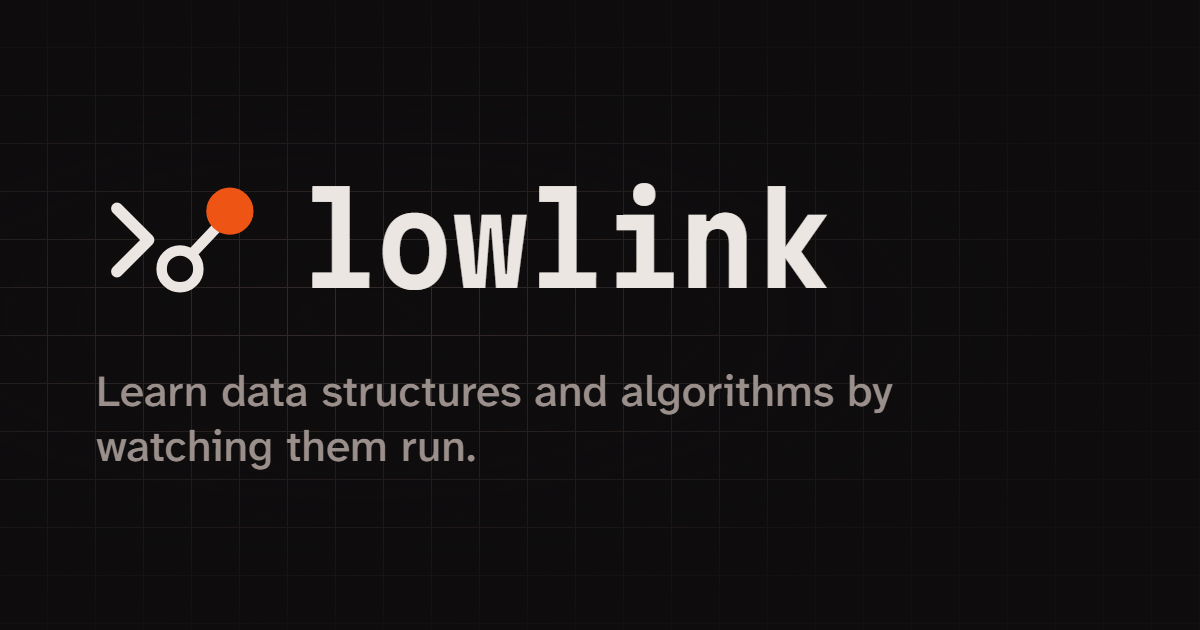
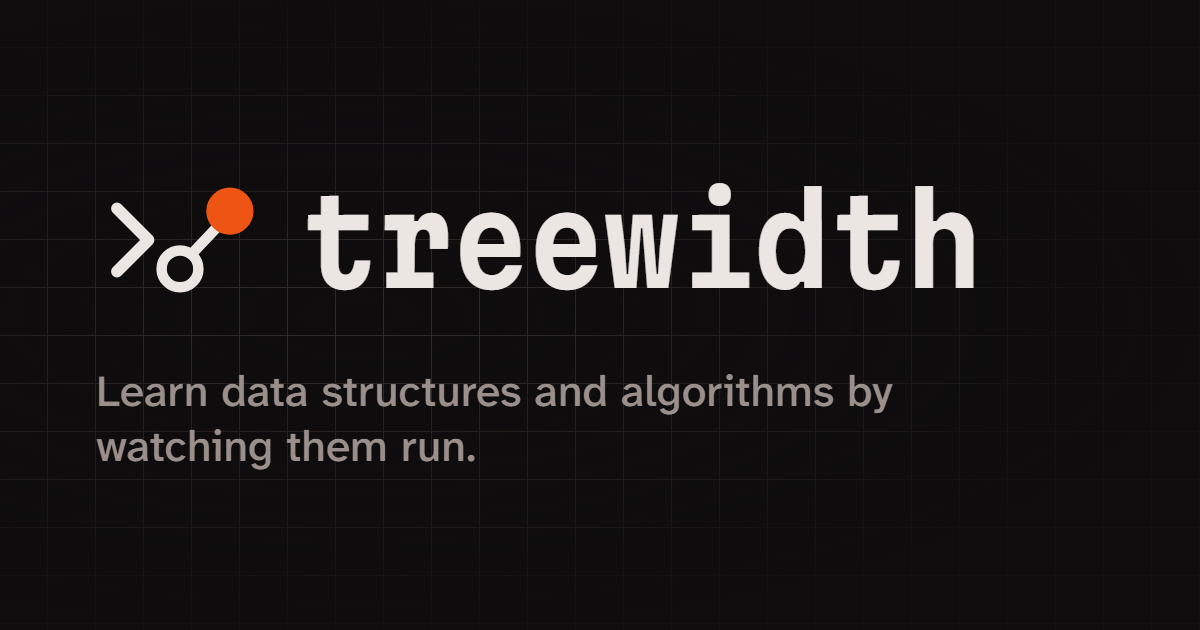
chore(brand): rename the product from Lowlink to Treewidth
Branding only. The wordmark, titles, meta and og tags, manifest, package
name, about page, footer and error copy now say Treewidth, and the OG card
is regenerated. Everything about Tarjan's algorithm keeps "low-link": node
labels, explanations, counters, the catalog entry and the "lowlink"
marquee op. Theme storage keys are unchanged so saved settings survive.

The domain is no longer hardcoded. SITE_ORIGIN is read at build time
(default https://treewidth.dev) and feeds canonical links, og:url,
og:image, and robots.txt, which is now generated beside sitemap.xml. A
test checks src/, public/ and the build output for the old domain.
treewidth.dev is not registered yet; CONTRIBUTING says SITE_ORIGIN must
point at a live domain before dev is merged to main.

Changed region(s): [[0.2467, 0.2714, 0.8325, 0.4825]]

diff --git a/vite.config.ts b/vite.config.ts
@@ -1,9 +1,11 @@
 import { defineConfig, type Plugin } from 'vitest/config';
+import { loadEnv } from 'vite';
 import react from '@vitejs/plugin-react';
 import tailwindcss from '@tailwindcss/vite';
 
 import './src/algorithms';
-import { sitemapXml } from './src/seo/sitemap';
+import { robotsTxt, sitemapXml } from './src/seo/sitemap';
+import { siteOriginFrom } from './src/site';
 import { ACTIVE_THEME, PRESETS, THEME_STYLE_ID, themeCss } from './src/theme/themes';
 
 /** FNV-1a, 32 bit: enough to tell one theme build from the next. */
@@ -25,7 +27,7 @@ const THEME_FILE = `assets/theme-${contentHash(THEME_CSS)}.css`;
  */
 function theme(): Plugin {
   return {
-    name: 'lowlink-theme',
+    name: 'treewidth-theme',
     transformIndexHtml: () => [
       { tag: 'link', attrs: { rel: 'stylesheet', id: THEME_STYLE_ID, href: `/${THEME_FILE}` }, injectTo: 'head' },
     ],
@@ -41,29 +43,43 @@ function theme(): Plugin {
   };
 }
 
-/** Emits sitemap.xml from the open levels; see src/seo/sitemap.ts. */
-function sitemap(): Plugin {
+/**
+ * Puts the site's origin wherever the site names itself: %SITE_ORIGIN% in
+ * index.html (og:url, og:image), and robots.txt and sitemap.xml, emitted
+ * from the open levels (see src/seo/sitemap.ts).
+ */
+function site(origin: string): Plugin {
   return {
-    name: 'lowlink-sitemap',
-    apply: 'build',
+    name: 'treewidth-site',
+    transformIndexHtml: {
+      order: 'pre',
+      handler: (html) => html.replaceAll('%SITE_ORIGIN%', origin),
+    },
     generateBundle() {
-      this.emitFile({ type: 'asset', fileName: 'sitemap.xml', source: sitemapXml() });
+      this.emitFile({ type: 'asset', fileName: 'robots.txt', source: robotsTxt(origin) });
+      this.emitFile({ type: 'asset', fileName: 'sitemap.xml', source: sitemapXml(undefined, origin) });
     },
   };
 }
 
-export default defineConfig({
-  plugins: [theme(), sitemap(), react(), tailwindcss()],
-  base: '/',
-  build: {
-    target: 'es2022',
-    sourcemap: true,
-  },
-  test: {
-    environment: 'node',
-    include: ['src/**/*.test.ts'],
-    // Vitest blanks stylesheets by default; themes.test.ts reads the role
-    // palette out of index.css so it can never drift from what ships.
-    css: { include: [/index\.css/] },
-  },
+export default defineConfig(({ mode }) => {
+  // SITE_ORIGIN from the environment (or a .env file), else the default in
+  // src/site.ts. The app reads it as import.meta.env.SITE_ORIGIN.
+  const origin = siteOriginFrom(loadEnv(mode, '.', 'SITE_ORIGIN').SITE_ORIGIN);
+  return {
+    plugins: [theme(), site(origin), react(), tailwindcss()],
+    base: '/',
+    define: { 'import.meta.env.SITE_ORIGIN': JSON.stringify(origin) },
+    build: {
+      target: 'es2022',
+      sourcemap: true,
+    },
+    test: {
+      environment: 'node',
+      include: ['src/**/*.test.ts'],
+      // Vitest blanks stylesheets by default; themes.test.ts reads the role
+      // palette out of index.css so it can never drift from what ships.
+      css: { include: [/index\.css/] },
+    },
+  };
 });

diff --git a/src/seo/siteOrigin.test.ts b/src/seo/siteOrigin.test.ts
@@ -1,0 +1,57 @@
+import { describe, expect, it } from 'vitest';
+import { build, type Rollup } from 'vite';
+
+import { DEFAULT_SITE_ORIGIN, SITE_ORIGIN, siteOriginFrom } from '../site';
+
+/** The old domain, spelled so this file does not contain it. */
+const OLD_DOMAIN = ['lowlink', 'dev'].join('.');
+
+/** Every file under src/ and public/, as text; binary files read as mangled text, which still shows an ASCII domain. */
+const SOURCES: Record<string, string> = import.meta.glob(['/src/**/*', '/public/**/*'], {
+  query: '?raw',
+  import: 'default',
+  eager: true,
+});
+
+function outputsOf(result: Awaited<ReturnType<typeof build>>): Rollup.OutputBundle[number][] {
+  const results = Array.isArray(result) ? result : [result];
+  return results.flatMap((one) => ('output' in one ? one.output : []));
+}
+
+describe('site origin', () => {
+  it('defaults to treewidth.dev and accepts only a bare https origin', () => {
+    expect(DEFAULT_SITE_ORIGIN).toBe('https://treewidth.dev');
+    expect(siteOriginFrom(undefined)).toBe(DEFAULT_SITE_ORIGIN);
+    expect(siteOriginFrom('  ')).toBe(DEFAULT_SITE_ORIGIN);
+    expect(siteOriginFrom('https://example.org/')).toBe('https://example.org');
+    expect(() => siteOriginFrom('http://example.org')).toThrow();
+    expect(() => siteOriginFrom('https://example.org/app')).toThrow();
+    expect(SITE_ORIGIN).toBe(siteOriginFrom(undefined));
+  });
+
+  it(`leaves no ${OLD_DOMAIN} in src/ or public/`, () => {
+    const names = Object.keys(SOURCES);
+    expect(names.some((name) => name.startsWith('/public/'))).toBe(true);
+    expect(names.filter((name) => SOURCES[name]?.includes(OLD_DOMAIN))).toEqual([]);
+  });
+
+  // public/ is copied into the output byte for byte, so the test above covers
+  // those files; this covers everything the build generates.
+  it(`leaves no ${OLD_DOMAIN} in the build output, and puts the origin where it belongs`, async () => {
+    const result = await build({ logLevel: 'silent', mode: 'production', build: { write: false, sourcemap: false } });
+    const files = outputsOf(result);
+    const text = (file: Rollup.OutputBundle[number]): string =>
+      file.type === 'chunk' ? file.code : typeof file.source === 'string' ? file.source : new TextDecoder().decode(file.source);
+    const byName = new Map(files.map((file) => [file.fileName, text(file)]));
+
+    expect(files.length).toBeGreaterThan(3);
+    expect([...byName].filter(([, body]) => body.includes(OLD_DOMAIN)).map(([name]) => name)).toEqual([]);
+
+    const html = byName.get('index.html') ?? '';
+    expect(html).toContain(`<meta property="og:url" content="${SITE_ORIGIN}/" />`);
+    expect(html).toContain(`<meta property="og:image" content="${SITE_ORIGIN}/og.png" />`);
+    expect(html).not.toContain('%SITE_ORIGIN%');
+    expect(byName.get('robots.txt')).toContain(`Sitemap: ${SITE_ORIGIN}/sitemap.xml`);
+    expect(byName.get('sitemap.xml')).toContain(`<loc>${SITE_ORIGIN}/</loc>`);
+  }, 120_000);
+});

diff --git a/index.html b/index.html
@@ -3,17 +3,17 @@
   <head>
     <meta charset="UTF-8" />
     <meta name="viewport" content="width=device-width, initial-scale=1.0" />
-    <title>Lowlink: learn data structures and algorithms by watching them run</title>
-    <meta name="description" content="Lowlink runs data structures and algorithms frame by frame, so you can step, scrub and count every comparison, swap and rotation." />
-    <meta property="og:title" content="Lowlink: learn data structures and algorithms by watching them run" />
-    <meta property="og:description" content="Lowlink runs data structures and algorithms frame by frame, so you can step, scrub and count every comparison, swap and rotation." />
+    <title>Treewidth: learn data structures and algorithms by watching them run</title>
+    <meta name="description" content="Treewidth runs data structures and algorithms frame by frame, so you can step, scrub and count every comparison, swap and rotation." />
+    <meta property="og:title" content="Treewidth: learn data structures and algorithms by watching them run" />
+    <meta property="og:description" content="Treewidth runs data structures and algorithms frame by frame, so you can step, scrub and count every comparison, swap and rotation." />
     <meta property="og:type" content="website" />
-    <meta property="og:site_name" content="Lowlink" />
-    <meta property="og:url" content="https://lowlink.dev/" />
-    <meta property="og:image" content="https://lowlink.dev/og.png" />
+    <meta property="og:site_name" content="Treewidth" />
+    <meta property="og:url" content="%SITE_ORIGIN%/" />
+    <meta property="og:image" content="%SITE_ORIGIN%/og.png" />
     <meta property="og:image:width" content="1200" />
     <meta property="og:image:height" content="630" />
-    <meta property="og:image:alt" content="The Lowlink mark and wordmark: learn data structures and algorithms by watching them run." />
+    <meta property="og:image:alt" content="The Treewidth mark and wordmark: learn data structures and algorithms by watching them run." />
     <meta name="twitter:card" content="summary_large_image" />
     <link rel="icon" href="/favicon.svg" type="image/svg+xml" />
     <link rel="apple-touch-icon" href="/apple-touch-icon.png" />

diff --git a/src/pages/AboutPage.tsx b/src/pages/AboutPage.tsx
@@ -26,7 +26,7 @@ function Section({ id, title, children }: { id: string; title: string; children:
 }
 
 export function AboutPage(): ReactNode {
-  usePageMeta('About - Lowlink');
+  usePageMeta('About - Treewidth');
 
   return (
     <div className="h-full overflow-y-auto">
@@ -35,20 +35,19 @@ export function AboutPage(): ReactNode {
 
         <Section id="about-name" title="The name">
           <p>
-            A node&apos;s low-link, in Tarjan&apos;s strongly connected components algorithm, is the earliest node its
-            depth-first search can reach back to.
+            The name comes from treewidth, a measure in graph theory of how close a graph is to being a tree.
           </p>
         </Section>
 
         <Section id="about-privacy" title="Privacy">
           <p>
-            Lowlink sets no cookies and stores only your light or dark theme choice in your browser. It uses Vercel Web
+            Treewidth sets no cookies and stores only your light or dark theme choice in your browser. It uses Vercel Web
             Analytics and Speed Insights to count page views and measure load times, without cookies or ad tracking.
           </p>
         </Section>
 
         <Section id="about-licences" title="Licences">
-          <p>Lowlink is released under the MIT License. Copyright (c) 2026 Bageerathan Saravanakumar.</p>
+          <p>Treewidth is released under the MIT License. Copyright (c) 2026 Bageerathan Saravanakumar.</p>
           <p>
             The fonts are under the SIL Open Font License 1.1:{' '}
             {FONTS.map(([name, folder], index) => (
@@ -62,7 +61,7 @@ export function AboutPage(): ReactNode {
             .
           </p>
           <p>
-            The code Lowlink ships from other projects, with each licence in full:{' '}
+            The code Treewidth ships from other projects, with each licence in full:{' '}
             <a href="/THIRD_PARTY_LICENSES.txt" className={LINK}>
               third-party licences
             </a>

diff --git a/src/site.ts b/src/site.ts
@@ -1,8 +1,31 @@
-/** Where Lowlink lives. Canonical links, og:url and the sitemap are built from it. */
-export const SITE_ORIGIN = 'https://lowlink.dev';
+/** Where the site lives unless SITE_ORIGIN says otherwise. */
+export const DEFAULT_SITE_ORIGIN = 'https://treewidth.dev';
+
+/**
+ * The origin from the SITE_ORIGIN environment variable at build time, or the
+ * default. vite.config.ts reads the variable once and defines it for the app,
+ * so the domain is written nowhere but here.
+ */
+export function siteOriginFrom(value: string | undefined): string {
+  const raw = value === undefined || value.trim() === '' ? DEFAULT_SITE_ORIGIN : value.trim();
+  const url = new URL(raw);
+  if (url.protocol !== 'https:' || url.pathname !== '/' || url.search !== '' || url.hash !== '') {
+    throw new Error(`SITE_ORIGIN must be a bare https origin like ${DEFAULT_SITE_ORIGIN}, not ${raw}`);
+  }
+  return url.origin;
+}
+
+/**
+ * Where the site lives. Canonical links, og:url, og:image, robots.txt and
+ * the sitemap are built from it. Vite defines import.meta.env.SITE_ORIGIN
+ * (see vite.config.ts); when the config itself loads this file there is no
+ * import.meta.env, so the config passes its origin in explicitly.
+ */
+export const SITE_ORIGIN: string =
+  typeof import.meta.env === 'undefined' ? DEFAULT_SITE_ORIGIN : siteOriginFrom(import.meta.env.SITE_ORIGIN);
 
 /** An absolute URL on the site for a path; drops a trailing slash so each page has one spelling. */
-export function siteUrl(path: string): string {
+export function siteUrl(path: string, origin: string = SITE_ORIGIN): string {
   const clean = path.length > 1 ? path.replace(/\/+$/, '') : '/';
-  return `${SITE_ORIGIN}${clean.startsWith('/') ? clean : `/${clean}`}`;
+  return `${origin}${clean.startsWith('/') ? clean : `/${clean}`}`;
 }

diff --git a/src/seo/sitemap.test.ts b/src/seo/sitemap.test.ts
@@ -2,7 +2,8 @@ import { describe, expect, it } from 'vitest';
 
 import '../algorithms';
 import { isOpen, LEVELS } from '../core/levels';
-import { sitemapPaths, sitemapXml, STATIC_PATHS } from './sitemap';
+import { SITE_ORIGIN } from '../site';
+import { robotsTxt, sitemapPaths, sitemapXml, STATIC_PATHS } from './sitemap';
 
 describe('sitemap', () => {
   const paths = sitemapPaths();
@@ -19,12 +20,21 @@ describe('sitemap', () => {
     for (const level of soon) expect(paths).not.toContain(`/visualize/${level.id}`);
   });
 
-  it('writes absolute https URLs on lowlink.dev, one per path', () => {
+  it('writes absolute https URLs on the site origin, one per path', () => {
     const xml = sitemapXml(paths);
-    const locs = [...xml.matchAll(/<loc>([^<]+)<\/loc>/g)].map((match) => match[1]);
+    const locs = [...xml.matchAll(/<loc>([^<]+)<\/loc>/g)].map((match) => match[1] ?? '');
     expect(locs).toHaveLength(paths.length);
-    expect(locs[0]).toBe('https://lowlink.dev/');
-    for (const loc of locs) expect(loc).toMatch(/^https:\/\/lowlink\.dev\/[a-z0-9/-]*$/);
+    expect(locs[0]).toBe(`${SITE_ORIGIN}/`);
+    for (const loc of locs) {
+      expect(loc.startsWith(SITE_ORIGIN)).toBe(true);
+      expect(loc.slice(SITE_ORIGIN.length)).toMatch(/^\/[a-z0-9/-]*$/);
+    }
     expect(xml).toMatch(/^<\?xml version="1.0" encoding="UTF-8"\?>/);
+  });
+
+  it('builds robots.txt and the sitemap from whichever origin it is given', () => {
+    expect(robotsTxt()).toBe(`User-agent: *\nAllow: /\nSitemap: ${SITE_ORIGIN}/sitemap.xml\n`);
+    expect(robotsTxt('https://example.org')).toContain('Sitemap: https://example.org/sitemap.xml');
+    expect(sitemapXml(['/', '/about'], 'https://example.org')).toContain('<loc>https://example.org/about</loc>');
   });
 });

diff --git a/src/seo/sitemap.ts b/src/seo/sitemap.ts
@@ -1,11 +1,11 @@
 /**
- * sitemap.xml, generated at build time (see vite.config.ts) from the levels,
+ * sitemap.xml and robots.txt, generated at build time (see vite.config.ts) from the levels,
  * so it can never list a page that does not exist. A level is listed only
  * once it is open; a "soon" level never is.
  */
 
 import { isOpen, LEVELS } from '../core/levels';
-import { siteUrl } from '../site';
+import { SITE_ORIGIN, siteUrl } from '../site';
 
 /** Pages that are always there, before the levels. */
 export const STATIC_PATHS: readonly string[] = ['/', '/browse', '/about'];
@@ -14,7 +14,12 @@ export function sitemapPaths(): readonly string[] {
   return [...STATIC_PATHS, ...LEVELS.filter(isOpen).map((level) => `/visualize/${level.id}`)];
 }
 
-export function sitemapXml(paths: readonly string[] = sitemapPaths()): string {
-  const urls = paths.map((path) => `  <url><loc>${siteUrl(path)}</loc></url>`).join('\n');
+export function sitemapXml(paths: readonly string[] = sitemapPaths(), origin: string = SITE_ORIGIN): string {
+  const urls = paths.map((path) => `  <url><loc>${siteUrl(path, origin)}</loc></url>`).join('\n');
   return `<?xml version="1.0" encoding="UTF-8"?>\n<urlset xmlns="http://www.sitemaps.org/schemas/sitemap/0.9">\n${urls}\n</urlset>\n`;
+}
+
+/** robots.txt, emitted beside the sitemap so its Sitemap line follows SITE_ORIGIN. */
+export function robotsTxt(origin: string = SITE_ORIGIN): string {
+  return `User-agent: *\nAllow: /\nSitemap: ${siteUrl('/sitemap.xml', origin)}\n`;
 }

diff --git a/src/components/ErrorBoundary.tsx b/src/components/ErrorBoundary.tsx
@@ -19,11 +19,11 @@ export class ErrorBoundary extends Component<{ children: ReactNode }, State> {
   }
 
   override componentDidCatch(error: Error, info: ErrorInfo): void {
-    console.error('Lowlink hit an error it could not recover from', error, info.componentStack);
+    console.error('Treewidth hit an error it could not recover from', error, info.componentStack);
   }
 
   override componentDidUpdate(): void {
-    if (this.state.failed) document.title = 'Something went wrong - Lowlink';
+    if (this.state.failed) document.title = 'Something went wrong - Treewidth';
   }
 
   override componentDidMount(): void {
@@ -36,7 +36,7 @@ export class ErrorBoundary extends Component<{ children: ReactNode }, State> {
       <main className="flex h-full flex-col items-center justify-center gap-3 bg-ground p-6 text-center text-fg">
         <h1 className="text-title font-semibold">Something went wrong</h1>
         <p className="max-w-md text-meta text-fg-dim">
-          Lowlink hit an error it could not recover from. Reloading usually fixes it; if it keeps happening, start
+          Treewidth hit an error it could not recover from. Reloading usually fixes it; if it keeps happening, start
           again from the path.
         </p>
         <a href="/" className={buttonClass('secondary')}>

diff --git a/src/App.tsx b/src/App.tsx
@@ -33,7 +33,7 @@ function Routes(): ReactNode {
 }
 
 function NotFound({ path }: { path: string }): ReactNode {
-  usePageMeta('Page not found - Lowlink', { canonical: false });
+  usePageMeta('Page not found - Treewidth', { canonical: false });
   return (
     <div className="flex h-full flex-col items-center justify-center gap-3 text-center">
       <h1 className="text-title font-semibold text-fg">Page not found</h1>
@@ -70,11 +70,11 @@ function Shell(): ReactNode {
       <header className="flex h-11 shrink-0 items-center gap-5 border-b border-line bg-panel px-3">
         <Link
           to="/"
-          aria-label="Lowlink, home"
+          aria-label="Treewidth, home"
           className={`flex items-center gap-2 rounded-xs font-display text-ui font-semibold font-stretch-semi-condensed text-fg ${FOCUS_RING}`}
         >
           <Logo surface="panel" className="h-6 w-6" />
-          <span>lowlink</span>
+          <span>treewidth</span>
         </Link>
         {/* A leaderboard link joins these once that page exists; never before. */}
         <nav aria-label="Main" className="flex items-center gap-1">

diff --git a/src/pages/VisualizePage.tsx b/src/pages/VisualizePage.tsx
@@ -62,7 +62,7 @@ export function VisualizePage({ algorithmId }: VisualizePageProps): ReactNode {
 }
 
 function UnknownAlgorithm({ id }: { id: string }): ReactNode {
-  usePageMeta(`Not found: ${id} - Lowlink`, { canonical: false });
+  usePageMeta(`Not found: ${id} - Treewidth`, { canonical: false });
   return (
     <div className="flex h-full flex-col items-center justify-center gap-3 p-6 text-center">
       <h1 className="text-title font-semibold text-fg">No algorithm registered as &quot;{id}&quot;</h1>
@@ -88,7 +88,7 @@ function AlgorithmView({ algorithm }: { algorithm: RegisteredAlgorithm }): React
 
   const { frames, error, building, progress } = useChunkedBuild(algorithm, params);
 
-  usePageMeta(`${algorithm.meta.name} - Lowlink`);
+  usePageMeta(`${algorithm.meta.name} - Treewidth`);
 
   const onApply = useCallback(
     (next: ParamMap) => {

diff --git a/src/components/SiteFooter.tsx b/src/components/SiteFooter.tsx
@@ -9,7 +9,7 @@ const LINK = `inline-flex min-h-6 items-center rounded-xs underline decoration-l
 export function SiteFooter(): ReactNode {
   return (
     <footer className="mx-auto flex max-w-6xl flex-wrap items-center gap-x-4 gap-y-1 border-t border-line px-6 py-4 text-meta text-fg-mute">
-      <span>Lowlink, MIT licensed</span>
+      <span>Treewidth, MIT licensed</span>
       <Link to="/about" className={LINK}>
         About and privacy
       </Link>

diff --git a/src/components/Logo.tsx b/src/components/Logo.tsx
@@ -22,7 +22,7 @@ export function Logo({
   surface?: keyof typeof SURFACE_FILL;
 }): ReactNode {
   return (
-    <svg viewBox="0 0 64 64" role="img" aria-label="Lowlink" className={className}>
+    <svg viewBox="0 0 64 64" role="img" aria-label="Treewidth" className={className}>
       <path
         d="M8 20 L20 32 L8 44"
         className="stroke-fg"
